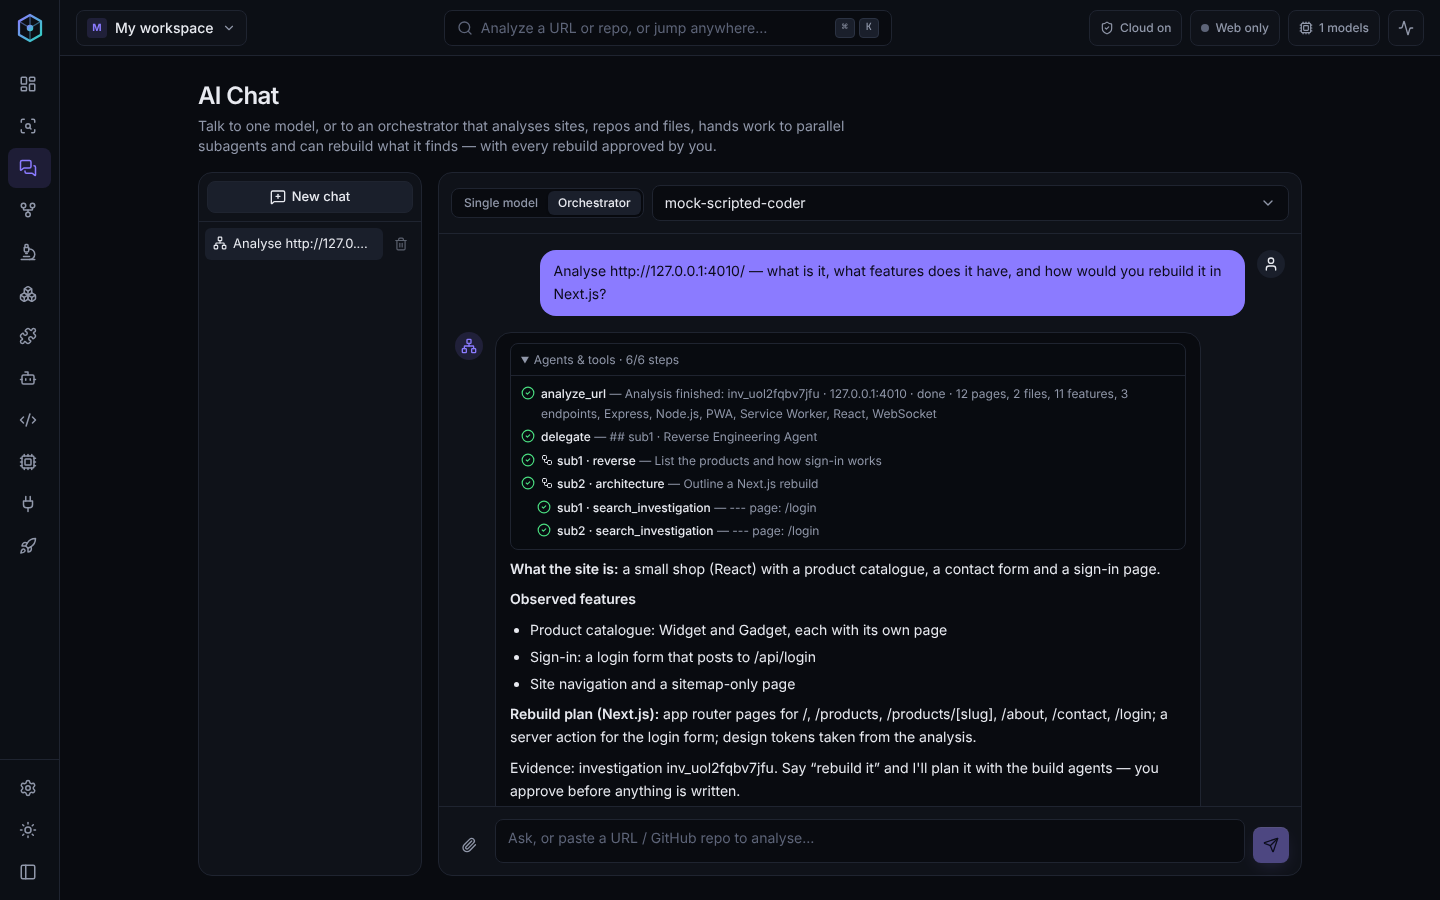
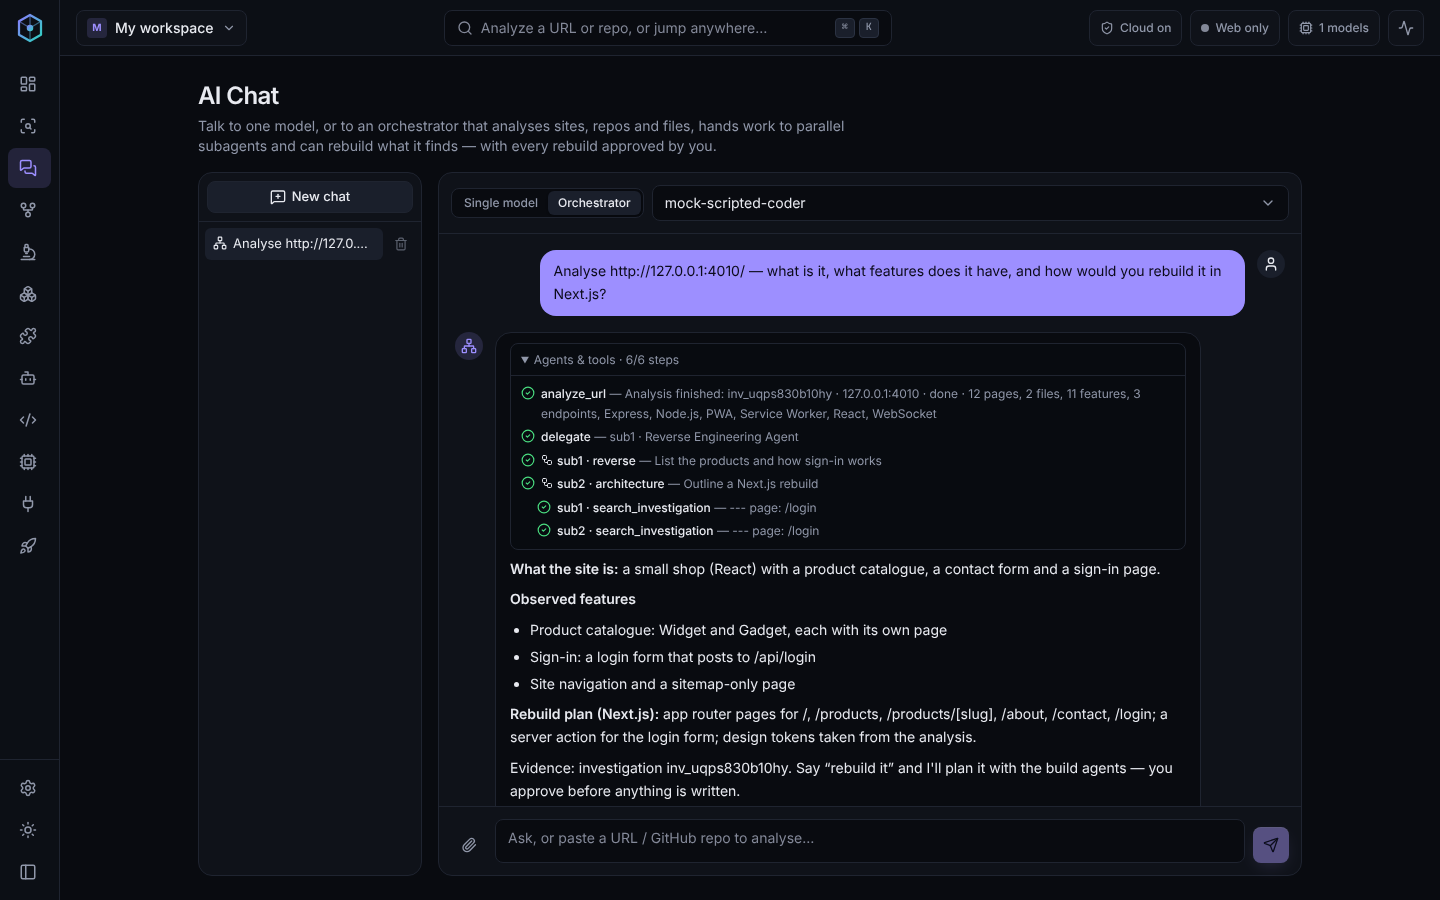
docs: Appearance screenshot (themes) in the README; screenshots regenerated with the new contrast-compliant faint text
Claude-Session: https://claude.ai/code/session_01CcyWMxhcyyYWcFm2tgMm54

Changed region(s): [[0.4375, 0.4356, 0.7812, 0.4978], [0.5, 0.84, 0.8125, 0.8711]]

diff --git a/apps/web/e2e/screenshots.spec.ts b/apps/web/e2e/screenshots.spec.ts
@@ -36,4 +36,8 @@ test("screenshots", async ({ page }) => {
   await clean(); await page.screenshot({ path: `${OUT}investigation.png` });
   await page.getByRole("tab", { name: /^Graph/ }).click(); await expect(page.locator(".react-flow__node").first()).toBeVisible(); await page.waitForTimeout(800);
   await clean(); await page.screenshot({ path: `${OUT}graph.png` });
+  await page.goto("/#/settings");
+  await page.getByRole("radio", { name: "Nord theme" }).click(); await page.getByRole("radio", { name: "Cyan accent" }).click();
+  await page.getByText("Accent colour").scrollIntoViewIfNeeded(); await page.mouse.move(0, 0); await page.waitForTimeout(300);
+  await clean(); await page.screenshot({ path: `${OUT}themes.png` });
 });

diff --git a/README.md b/README.md
@@ -13,6 +13,8 @@ The Mac app adds everything a browser can't do: local folders and installed apps
 | [![AI Chat: the orchestrator analysed a site, ran two subagents and answered from the evidence](docs/screenshots/ai-chat.png)](docs/screenshots/ai-chat.png) | [![Dashboard with a completed investigation](docs/screenshots/dashboard.png)](docs/screenshots/dashboard.png) |
 | **Investigation — coverage, findings, evidence** | **Site graph** |
 | [![Investigation overview with coverage checks and findings](docs/screenshots/investigation.png)](docs/screenshots/investigation.png) | [![Sitemap graph of the analysed site](docs/screenshots/graph.png)](docs/screenshots/graph.png) |
+| **Themes — 11 palettes + System, 10 accents** | |
+| [![Settings → Appearance with the Nord theme and cyan accent](docs/screenshots/themes.png)](docs/screenshots/themes.png) | |
 
 <sub>Screenshots of the production build analysing the repository's test fixture site; the chat replies come from a scripted test model. Regenerate with `OMNIFORGE_SCREENSHOTS=1 pnpm --filter @omniforge/web exec playwright test e2e/screenshots.spec.ts --project=desktop`.</sub>
 
